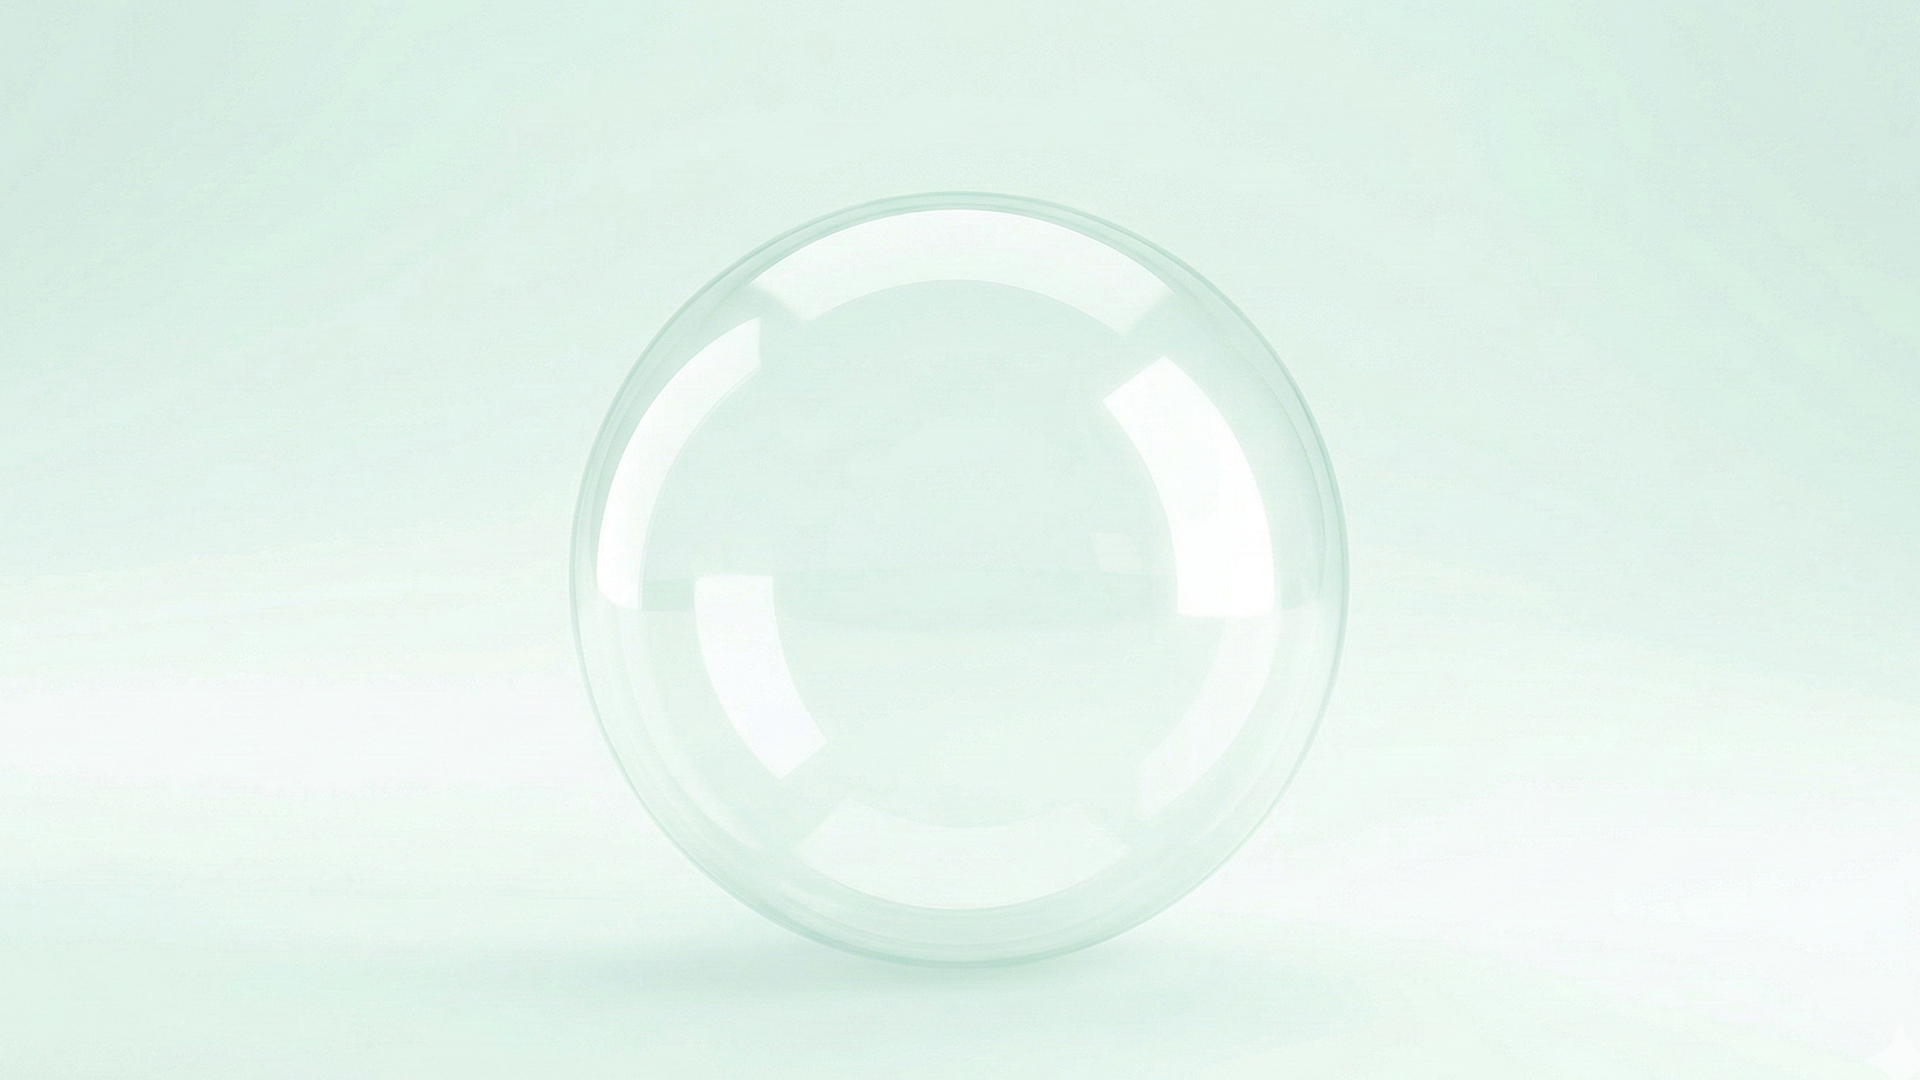
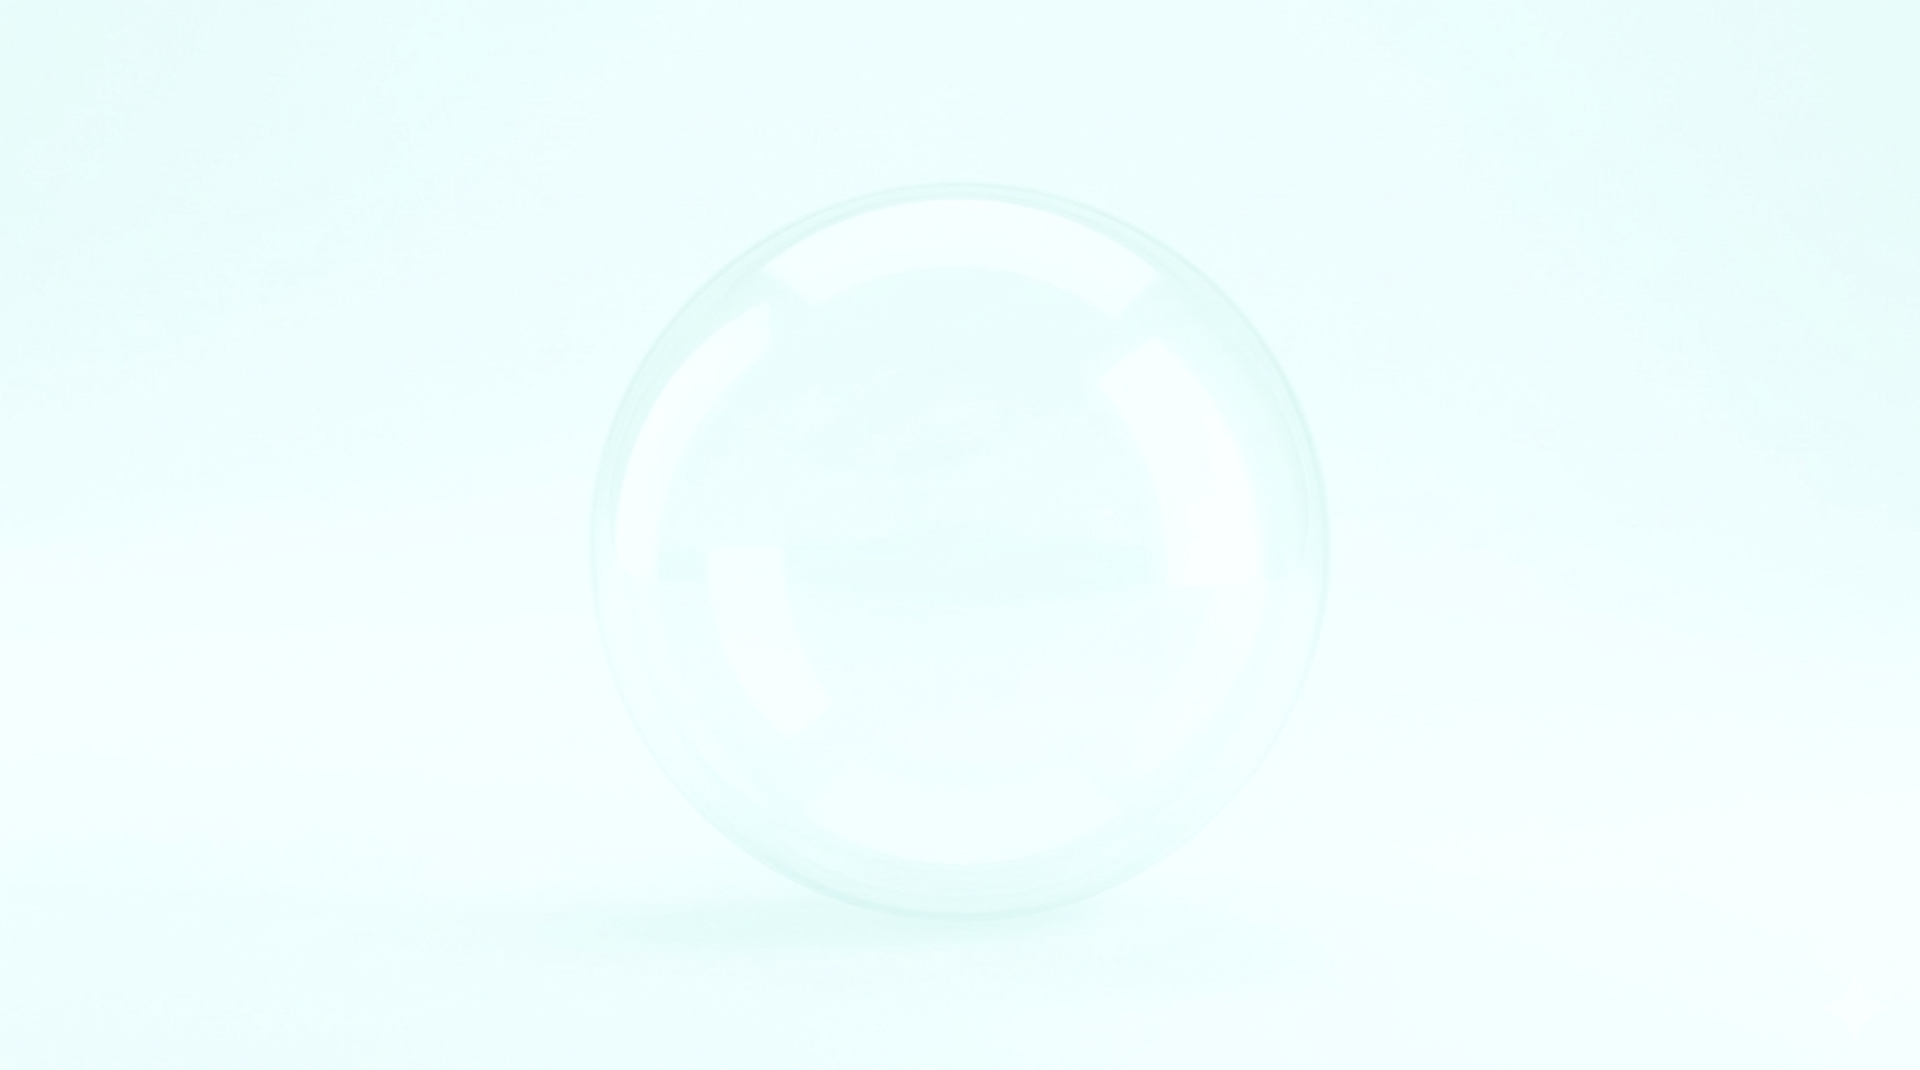
feat: 회원가입 화면 수정, 헤더 세로 크기 조정

diff --git a/src/routes/AuthGuard.jsx b/src/routes/AuthGuard.jsx
@@ -29,12 +29,12 @@ export default function AuthGuard({ children }) {
         
         // 권한 확인
         // ----------- 잠시 주석처리!!!!!!!!!!!! ---------------
-        // if (response.data.userRole === 'BEFORE_AGREED') {
-        //   setIsLoading(false);
-        //   navigate('/terms');
-        // } else {
+        if (response.data.userRole === 'BEFORE_AGREED') {
           setIsLoading(false);
-        // }
+          navigate('/terms');
+        } else {
+          setIsLoading(false);
+        }
       } catch (error) {
         console.error("로그인 안 됨:", error);
         navigate('/login'); // 쫓아내기

diff --git a/src/components/Header.jsx b/src/components/Header.jsx
@@ -3,7 +3,7 @@ import logo from '../assets/logo.png'
 
 export default function Header() {
   return (
-    <header className="sticky top-0 w-full h-22 flex items-center px-[3.5%] bg-white z-50">
+    <header className="sticky top-0 w-full h-18 flex items-center px-[3.5%] bg-white z-50">
       <Logo />
       <NavMenu />
       <div className="ml-auto">
@@ -37,7 +37,7 @@ function NavMenu() {
           onClick={() => navigate(item.path)}
           className={`font-[Inter] font-medium text-[17px] cursor-pointer whitespace-nowrap transition-colors
             ${location.pathname === item.path
-              ? 'text-[#515151]'
+              ? 'text-[#03BFA5]'
               : 'text-gray-400 hover:text-[#515151]'
             }`}
         >

diff --git a/src/pages/Login.jsx b/src/pages/Login.jsx
@@ -9,7 +9,7 @@ export default function Login() {
       className="min-h-screen bg-cover bg-center bg-no-repeat flex flex-col"
       style={{ backgroundImage: `url(${bubbleBg})` }}
     >
-      <main className="flex-1 flex flex-col items-center justify-end pb-[5%]">
+      <main className="flex-1 flex flex-col items-center justify-end pb-[9%]">
         <img src={keyImg} alt="열쇠" className="w-90" />
         <TextAndButtons />
       </main>